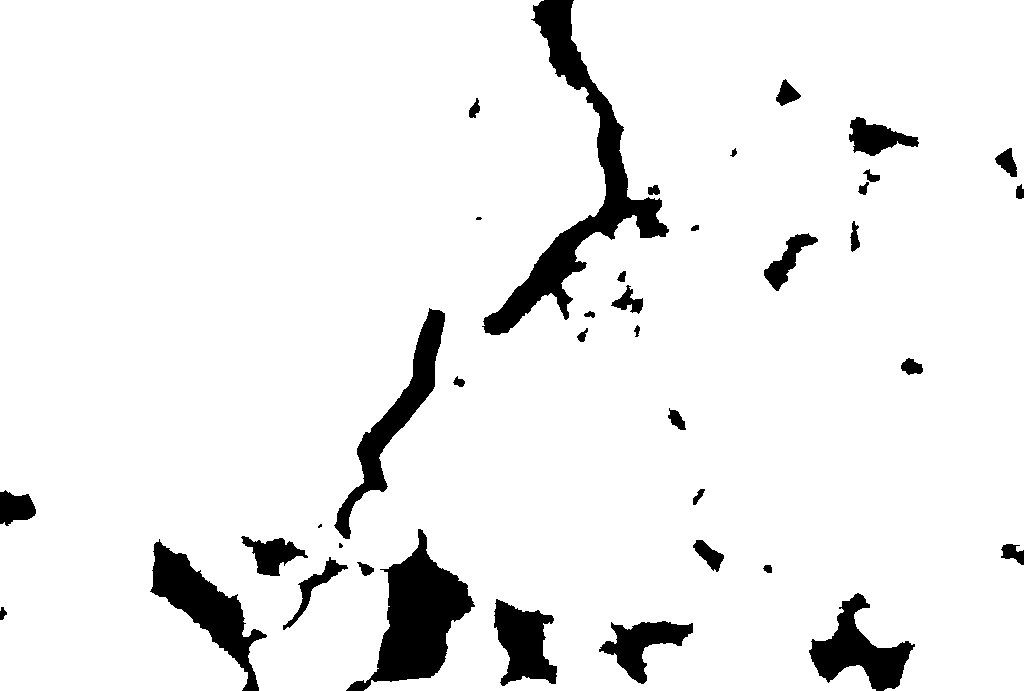
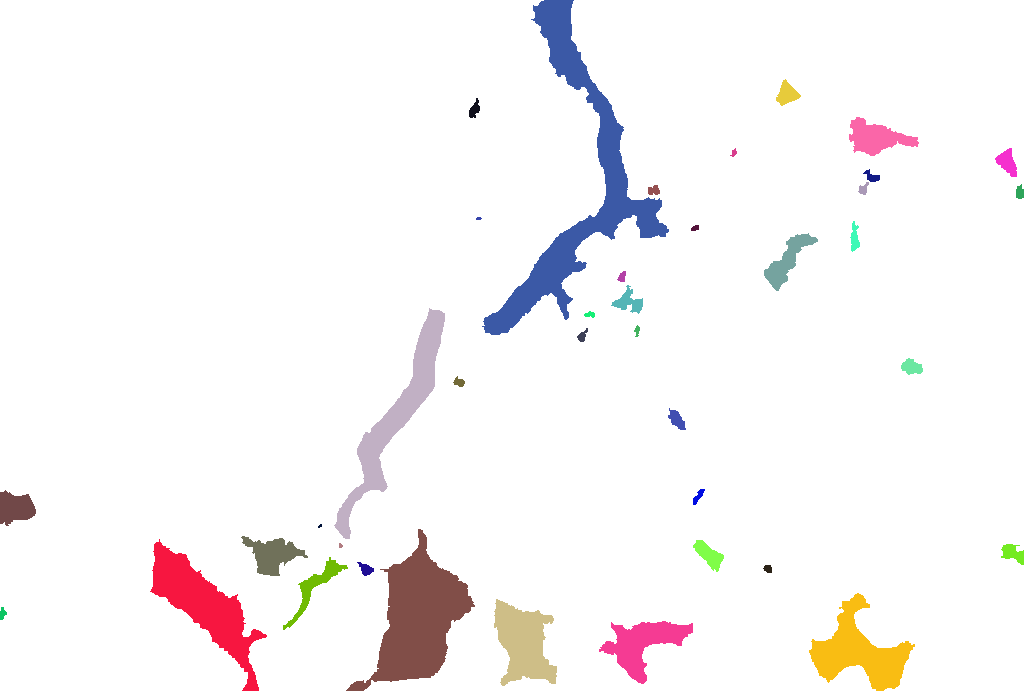
Color different clusters on SEM images

diff --git a/paper-correlations.tex b/paper-correlations.tex
@@ -919,7 +919,8 @@ on \cref{fig:real-multiphase}. Correlation maps for one of SEM samples are of
   \vskip\baselineskip
   \includegraphics[width=0.32\linewidth]{samples/pore-size-sem.png}
   \includegraphics[width=0.32\linewidth]{samples/chord-length-sem.png}
-  \caption[]{SEM images and plots of correlation functions for these images.}
+  \caption[]{SEM images and plots of correlation functions for these
+    images. Different clusters of the void phase are shown in color.}
   \label{fig:real-sem}
 \end{figure*}
 
